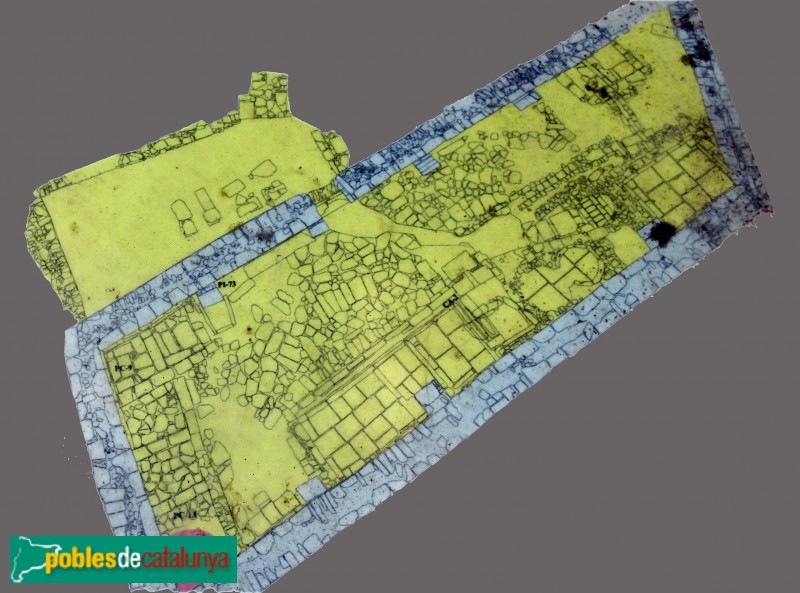
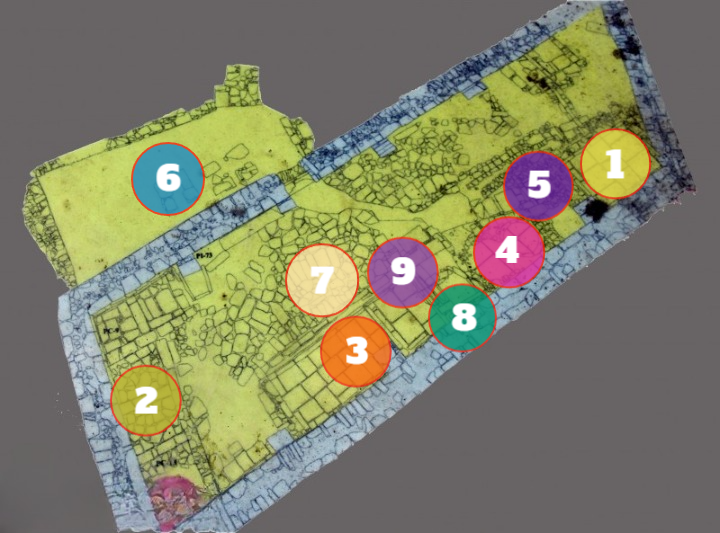
prova 3

diff --git a/screens/Repte3.js b/screens/Repte3.js
@@ -42,6 +42,7 @@ const Repte3 = ({ navigation }) => {
   const [currentTeam, setCurrentTeam] = useState(null);
   const [reptesCompletats, setreptesCompletats] = useState([]);
   const [modalVisible, setModalVisible] = useState(false);
+  const [modalAlertVisible, setModalAlertVisible] = useState(false);
   const [teamId, setTeamId] = useState(null);
 
   const obtenerValor = async () => {
@@ -80,6 +81,10 @@ const Repte3 = ({ navigation }) => {
   let text3 = "";
   let text4 = "";
   let text5 = "";
+  let text6 = "";
+  let text7 = "";
+  let text8 = "";
+  let text9 = "";
 
   const togglePlaying = useCallback(() => {
     setPlaying((prev) => !prev);
@@ -113,8 +118,37 @@ const Repte3 = ({ navigation }) => {
   function closeModal() {
     setModalVisible(false);
   }
+  function closeModalAlert() {
+    setModalAlertVisible(false);
+  }
 
-  function handleEnviar() {}
+  function handleEnviar() {
+    if (
+      text1.includes("remull")  &&
+      text2.includes("calciners") &&
+      text3.includes("adob")  &&
+      text4.includes("tenyit") &&
+      text5.includes("treball") &&
+      text6.includes("magatzem") &&
+      text7.includes("pou") &&
+      text8.includes("entrada") &&
+      text9.includes("desguas")
+    ) {
+      const docRef = doc(db, "equips", teamId);
+      updateDoc(docRef, {
+        proves: arrayUnion("3"),
+      })
+        .then(() => {
+          navigation.navigate("Inici");
+        })
+        .catch((error) => {
+          console.log(error.message);
+        });
+    } else {
+      setModalAlertVisible(true);
+      console.log("NO");
+    }
+  }
 
   return (
     <ScrollView>
@@ -189,6 +223,42 @@ const Repte3 = ({ navigation }) => {
               }}
             ></TextInput>
           </View>
+          <View style={styles.inputResponseBox}>
+            <Text style={styles.numbers}>6</Text>
+            <TextInput
+              style={styles.textInput}
+              onChangeText={(value) => {
+                text6 = value;
+              }}
+            ></TextInput>
+          </View>
+          <View style={styles.inputResponseBox}>
+            <Text style={styles.numbers}>7</Text>
+            <TextInput
+              style={styles.textInput}
+              onChangeText={(value) => {
+                text7 = value;
+              }}
+            ></TextInput>
+          </View>
+          <View style={styles.inputResponseBox}>
+            <Text style={styles.numbers}>8</Text>
+            <TextInput
+              style={styles.textInput}
+              onChangeText={(value) => {
+                text8 = value;
+              }}
+            ></TextInput>
+          </View>
+          <View style={styles.inputResponseBox}>
+            <Text style={styles.numbers}>9</Text>
+            <TextInput
+              style={styles.textInput}
+              onChangeText={(value) => {
+                text9 = value;
+              }}
+            ></TextInput>
+          </View>
           <TouchableOpacity
             style={styles.button2}
             onPress={() => handleEnviar()}
@@ -221,6 +291,25 @@ const Repte3 = ({ navigation }) => {
               </Text>
               <TextInput></TextInput>
               <TouchableOpacity style={styles.modalButton} onPress={closeModal}>
+                <Text style={styles.modalButtonText}>Tancar</Text>
+              </TouchableOpacity>
+            </View>
+          </View>
+        </Modal>
+        <Modal
+          animationType="slide"
+          transparent={true}
+          visible={modalAlertVisible}
+          onRequestClose={closeModalAlert}
+        >
+          <View style={styles.modalView}>
+            <View style={styles.modalContent}>
+              <Text style={styles.title}>Resposta incorrecta</Text>
+              <Text style={styles.modalText}>
+                Revisa les teves respostes, n'hi ha alguna que no és correcta.
+              </Text>
+              <TextInput></TextInput>
+              <TouchableOpacity style={styles.modalButton} onPress={closeModalAlert}>
                 <Text style={styles.modalButtonText}>Tancar</Text>
               </TouchableOpacity>
             </View>
@@ -355,7 +444,7 @@ const styles = StyleSheet.create({
     fontSize: 16,
   },
   imatge: {
-    height: 230,
+    height: 250,
     width: "100%",
     marginVertical: 15,
   },
